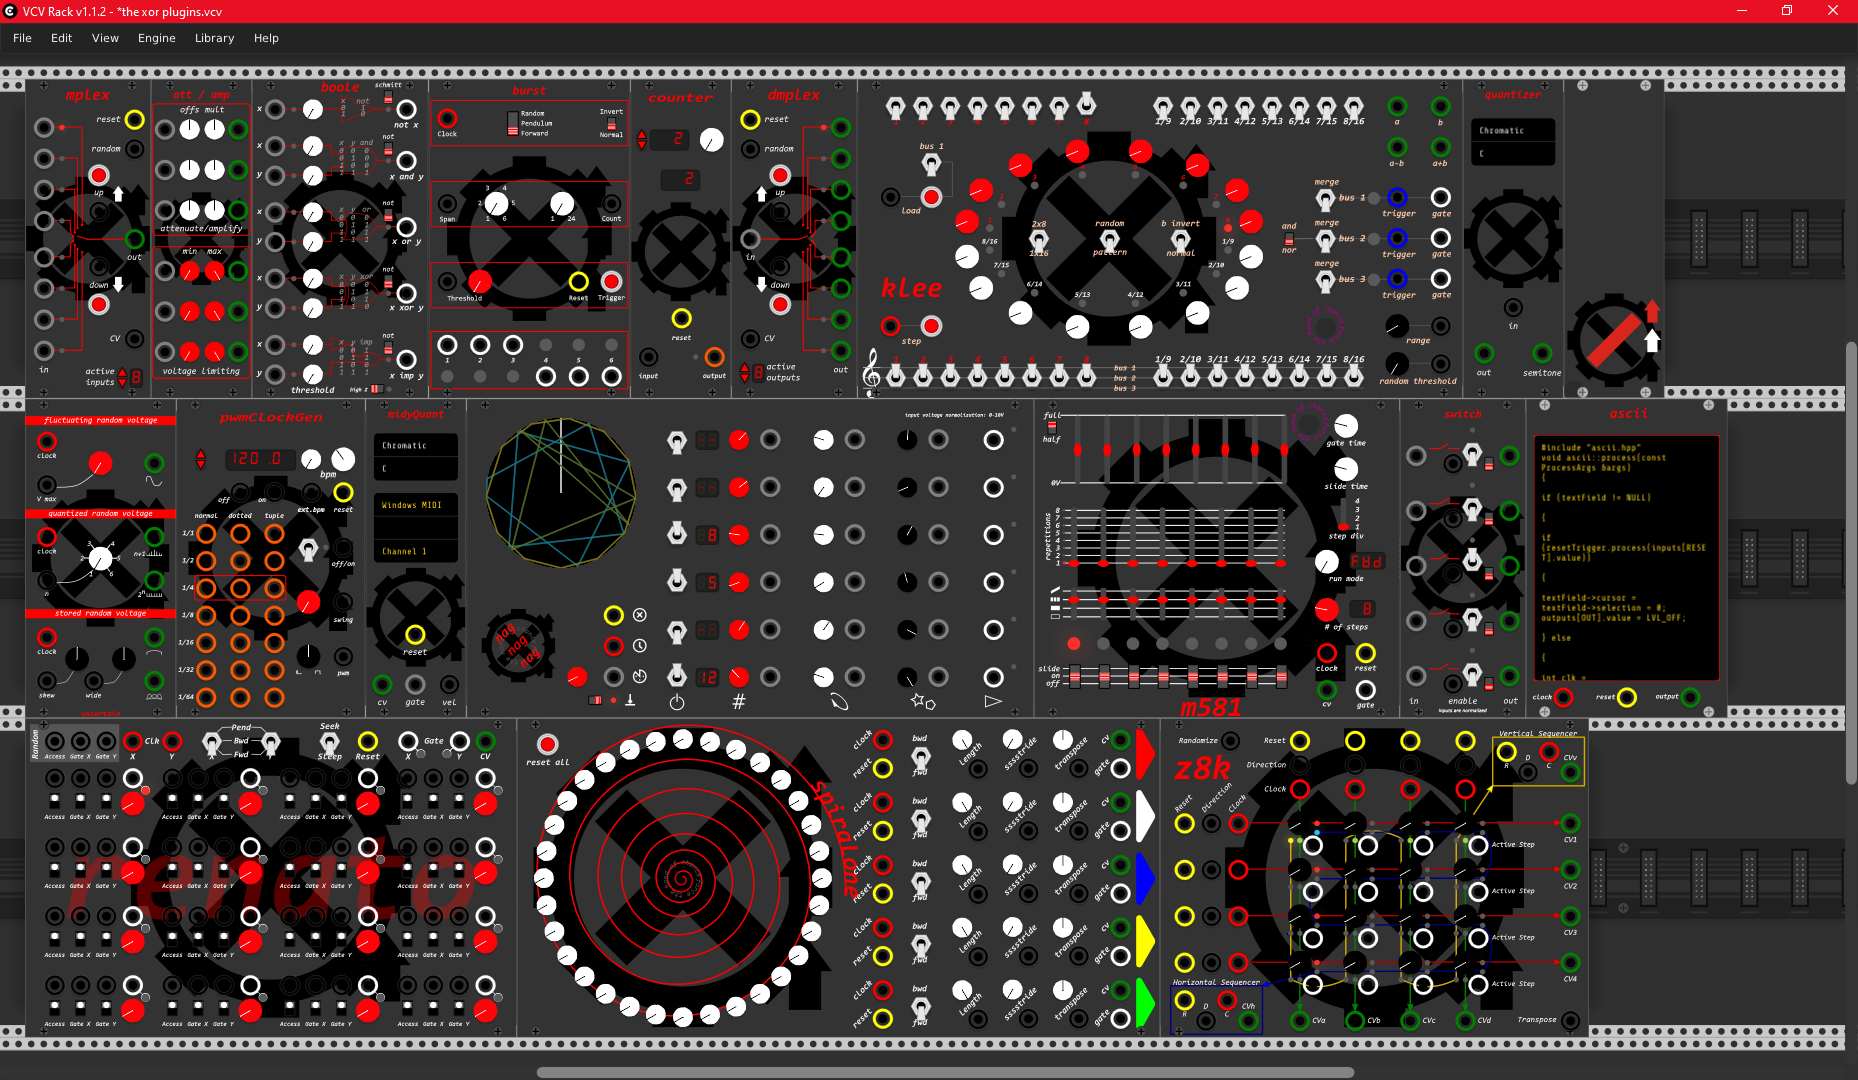
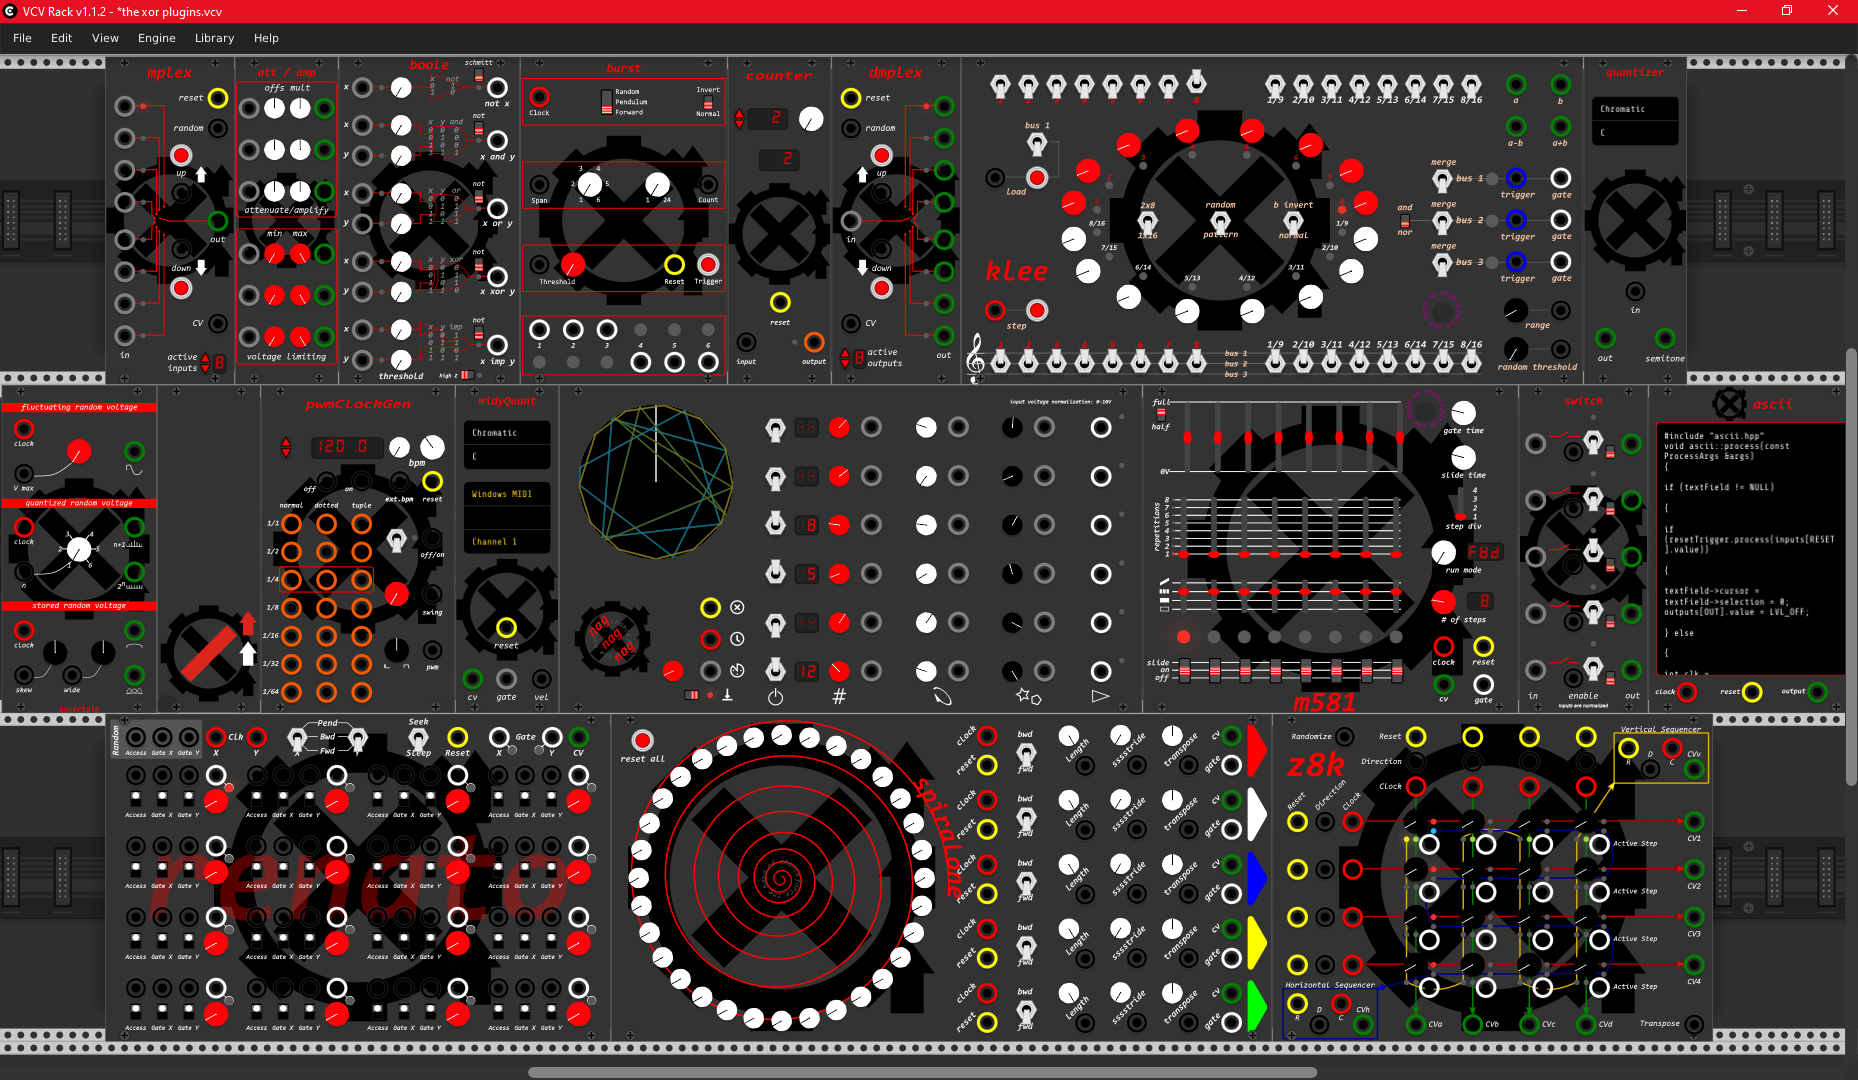
bugs

diff --git a/src/ascii.cpp b/src/ascii.cpp
@@ -41,13 +41,15 @@ asciiWidget::asciiWidget(ascii *module)
 		addChild(panel);
 	}
 
-	addChild(createWidget<ScrewSilver>(Vec(RACK_GRID_WIDTH, 0)));
-	addChild(createWidget<ScrewSilver>(Vec(box.size.x - 2 * RACK_GRID_WIDTH, 0)));
-	addChild(createWidget<ScrewSilver>(Vec(RACK_GRID_WIDTH, RACK_GRID_HEIGHT - RACK_GRID_WIDTH)));
-	addChild(createWidget<ScrewSilver>(Vec(box.size.x - 2 * RACK_GRID_WIDTH, RACK_GRID_HEIGHT - RACK_GRID_WIDTH)));
+	addChild(createWidget<ScrewBlack>(Vec(RACK_GRID_WIDTH, 0)));
+	addChild(createWidget<ScrewBlack>(Vec(box.size.x - 2 * RACK_GRID_WIDTH, 0)));
+	addChild(createWidget<ScrewBlack>(Vec(RACK_GRID_WIDTH, RACK_GRID_HEIGHT - RACK_GRID_WIDTH)));
+	addChild(createWidget<ScrewBlack>(Vec(box.size.x - 2 * RACK_GRID_WIDTH, RACK_GRID_HEIGHT - RACK_GRID_WIDTH)));
 
 	textField = createWidget<LedDisplayTextField>(mm2px(Vec(3.39962, 14.8373)));
 	textField->box.size = mm2px(Vec(74.480, 98.753));
+	((LedDisplayTextField *)textField)->color = nvgRGB(0xff, 0xff, 0xff);
+
 	textField->multiline = true;
 	addChild(textField);
 	if (module != NULL)

diff --git a/src/empty.cpp b/src/empty.cpp
@@ -59,10 +59,10 @@ emptyWidget::emptyWidget(empty *module)
 		panel->setBackground(APP->window->loadSvg(asset::plugin(pluginInstance, "res/modules/empty.svg")));
 		addChild(panel);
 	}
-	addChild(createWidget<ScrewSilver>(Vec(RACK_GRID_WIDTH, 0)));
-	addChild(createWidget<ScrewSilver>(Vec(box.size.x - 2 * RACK_GRID_WIDTH, 0)));
-	addChild(createWidget<ScrewSilver>(Vec(RACK_GRID_WIDTH, RACK_GRID_HEIGHT - RACK_GRID_WIDTH)));
-	addChild(createWidget<ScrewSilver>(Vec(box.size.x - 2 * RACK_GRID_WIDTH, RACK_GRID_HEIGHT - RACK_GRID_WIDTH)));
+	addChild(createWidget<ScrewBlack>(Vec(RACK_GRID_WIDTH, 0)));
+	addChild(createWidget<ScrewBlack>(Vec(box.size.x - 2 * RACK_GRID_WIDTH, 0)));
+	addChild(createWidget<ScrewBlack>(Vec(RACK_GRID_WIDTH, RACK_GRID_HEIGHT - RACK_GRID_WIDTH)));
+	addChild(createWidget<ScrewBlack>(Vec(box.size.x - 2 * RACK_GRID_WIDTH, RACK_GRID_HEIGHT - RACK_GRID_WIDTH)));
 
 	emptyDisplay *disp = createWidget<emptyDisplay>(mm2px(Vec(2.929, px2mm(61.743))));
 	disp->box.size = mm2px(Vec(35.549, 61.743));

diff --git a/src/Z8KModule.cpp b/src/Z8KModule.cpp
@@ -116,7 +116,7 @@ Z8KWidget::Z8KWidget(Z8K *module) : SequencerWidget(module)
 		for(int c = 0; c < 4; c++)
 		{
 			int n = c + r * 4;
-			ParamWidget *pctrl = createParam<Davies1900hFixBlackKnob>(Vec(mm2px(51.533 + dist_h * c), yncscape(81.575+ dist_v * r,9.525)), module, Z8K::VOLTAGE_1 + n);
+			ParamWidget *pctrl = createParam<Davies1900hFixRedKnob>(Vec(mm2px(51.533 + dist_h * c), yncscape(81.575+ dist_v * r,9.525)), module, Z8K::VOLTAGE_1 + n);
 			#ifdef OSCTEST_MODULE
 			if(module != NULL)
 			{
